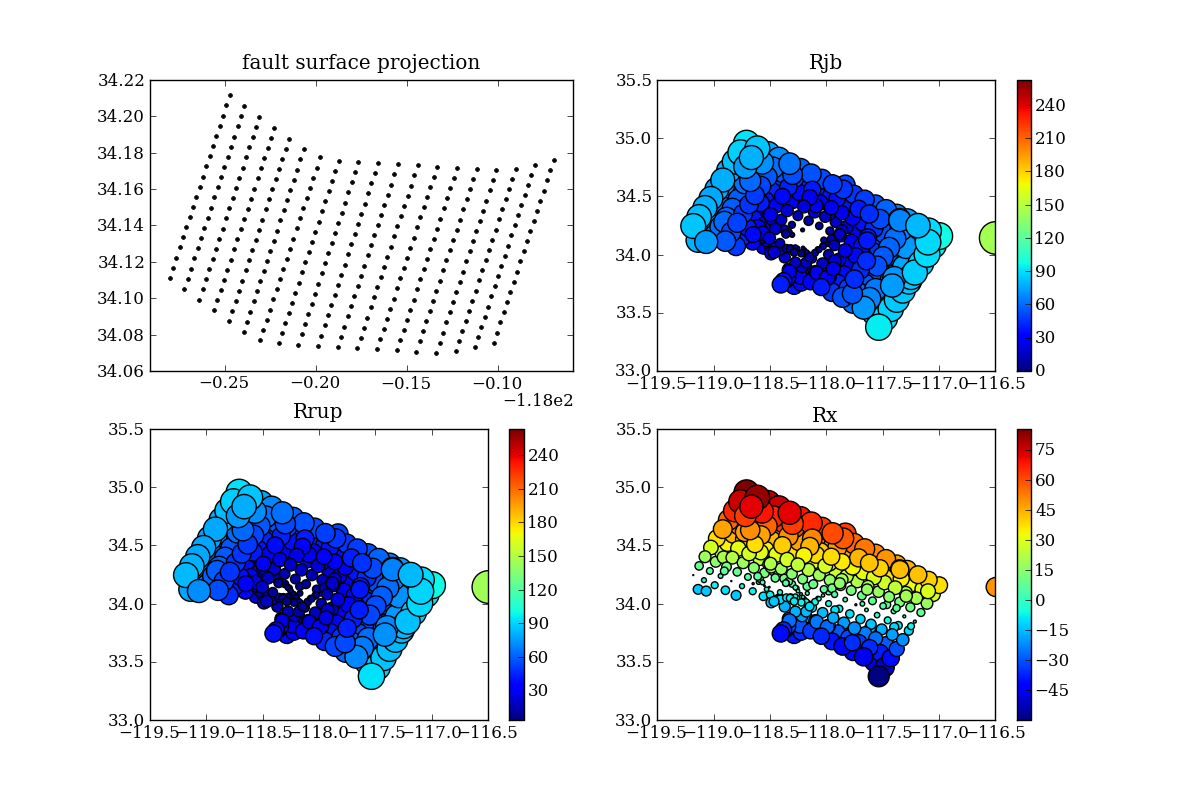
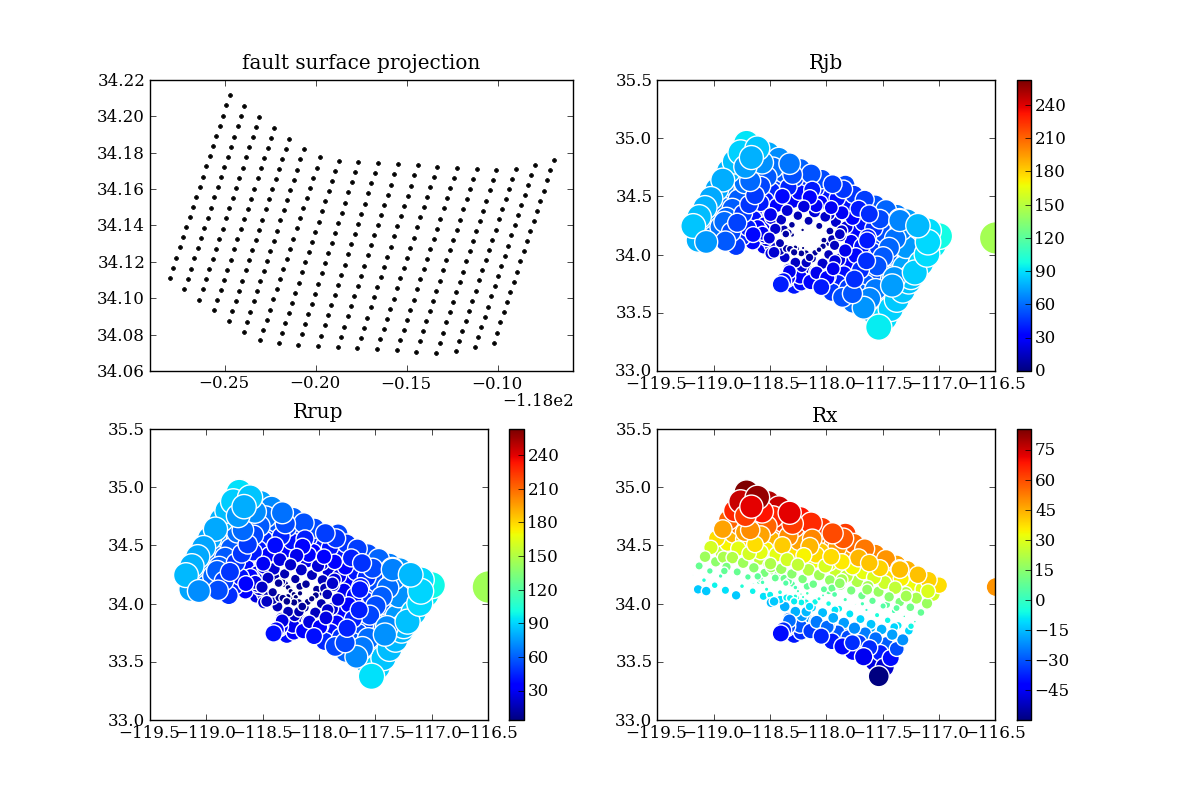
DistancePlots

Changed region(s): [[0.555, 0.1562, 0.8017, 0.4062], [0.1542, 0.5938, 0.37, 0.8438], [0.5858, 0.5938, 0.8017, 0.8438]]

diff --git a/Validation/Validations.py b/Validation/Validations.py
@@ -174,6 +174,7 @@ else:
 		    ax.set_ylabel('Error' )
 	    fig.savefig( plotpth + '/CptDistErrRelativeSrc%s.%s'%(sid,pfmt),format=pfmt )
 
+        if 1: 
 	    # Scatter results (to see the distribution)
 	    lons = []; lats = []
 	    Rjb = []; Rrup = []; Rx = []
@@ -190,12 +191,18 @@ else:
 
 	    fig = plt.figure(3) 
 	    i = 1
+	    ax = fig.add_subplot( 2,2,i )
+	    ax.plot( Fault[:,0], Fault[:,1], 'k.' ) # fault surface projection
+	    ax.set_title('fault surface projection')
+	    plt.axis('equal')
 	    for f in [Rjb, Rrup, Rx]: 
-		ax = fig.add_subplot( 2,2,i )
-		ax.plot( Fault[:,0], Fault[:,1], 'r.' ) # fault surface projection
-		sc = ax.scatter( lons, lats, c=f, s=abs(f)*3, edgecolor='k' )
+		ax = fig.add_subplot( 2,2,i+1 )
+		#ax.plot( Fault[:,0], Fault[:,1], 'r.' ) # fault surface projection
+		sc = ax.scatter( lons, lats, c=f, s=abs(f)*50, edgecolor='w' )
 		ax.set_title(DistKey[i-1])
-		plt.axis('equal')
+		#plt.axis('equal')
+		ax.set_ylim([33,35.5])
+		ax.set_xlim([-119.5,-116.5])
 		fig.colorbar(sc)
 		i += 1   
 	    fig.savefig( plotpth + '/CptDistDiffScatterSrc%s.%s'%(sid,pfmt), format=pfmt )
@@ -224,7 +231,7 @@ else:
 	#ax.set_xlim([-119.5,-116.5])
 	for f in [Rjb, Rrup, Rx]: 
 	    ax = fig.add_subplot( 2,2,i+1 )
-	    sc = ax.scatter( lons, lats, c=f, s=abs(f)*3, edgecolor='k' )
+	    sc = ax.scatter( lons, lats, c=f, s=abs(f)*3, edgecolor='w' )
 	    ax.set_title(DistKey[i-1])
 	    ax.set_ylim([33,35.5])
 	    ax.set_xlim([-119.5,-116.5])
@@ -257,7 +264,7 @@ else:
 	#ax.set_xlim([-119.5,-116.5])
 	for f in [Rjb, Rrup, Rx]: 
 	    ax = fig.add_subplot( 2,2,i+1 )
-	    sc = ax.scatter( lons, lats, c=f, s=abs(f)*3, edgecolor='k' )
+	    sc = ax.scatter( lons, lats, c=f, s=abs(f)*3, edgecolor='w' )
 	    ax.set_title(DistKey[i-1])
 	    ax.set_ylim([33,35.5])
 	    ax.set_xlim([-119.5,-116.5])

diff --git a/FlingStudy/FlingUtils.py b/FlingStudy/FlingUtils.py
@@ -74,7 +74,7 @@ def FaultGeom(IDs, Dims, Mech, HypoLoc, ProjDict, VisualDict=None):
 	fig.savefig( plotpth + plotn, format=savetype )
         
 	# 2. plot in 3D
-	fig = plt.figure(2) 
+	fig = plt.figure(2) /
 	ax = Axes3D(fig) 
 	
 	ax.plot( rlon, rlat, np.zeros(len(rlon)), 'k^', ms=8 )
